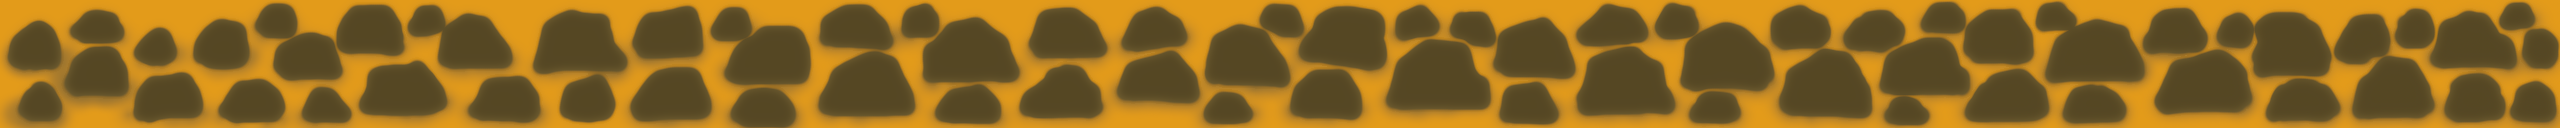
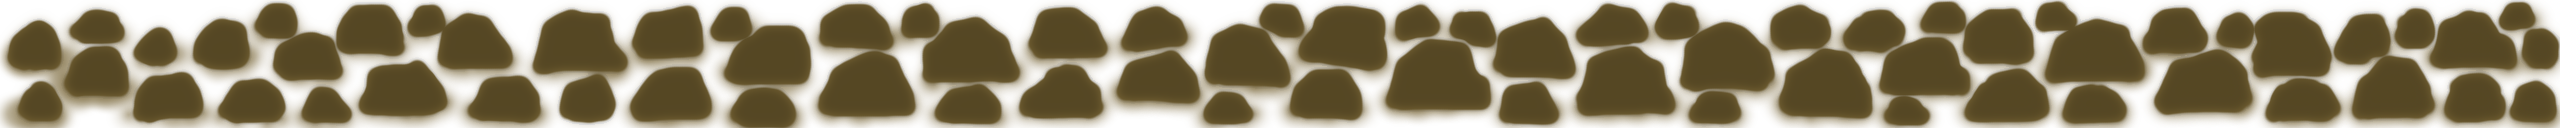
updated the images used for the game

diff --git a/src/main.ts b/src/main.ts
@@ -141,7 +141,33 @@ class PlayGame extends Phaser.Scene
                     screenCenterY + 2560 / 2 - (this.verticalWall.width + this.horizontalWall.height)
                 );
 
-                let cliff = new Phaser.Physics.Arcade.Sprite(this, randomX, randomY, 'tile-1');
+                let cliffRandomImageIndex = Phaser.Math.Between(1, 4);
+                let cliffRandomImageName: string = '';
+                switch(cliffRandomImageIndex)
+                {
+                    case 1:
+                        {
+                            cliffRandomImageName = 'tile-1'
+                            break;
+                        }
+                    case 2:
+                        {
+                            cliffRandomImageName = 'tile-2'
+                            break;
+                        }
+                    case 3:
+                        {
+                            cliffRandomImageName = 'tile-3'
+                            break;
+                        }
+                    case 4:
+                        {
+                            cliffRandomImageName = 'tile-4'
+                            break;
+                        }
+                }
+ 
+                let cliff = new Phaser.Physics.Arcade.Sprite(this, randomX, randomY, cliffRandomImageName);
                 const invalid = this.physics.overlap(cliff, this.player) 
                 || this.physics.overlap(cliff, this.escapeHatch)
                 || this.physics.overlap(cliff, this.batteries)
@@ -231,11 +257,11 @@ class PlayGame extends Phaser.Scene
     {
         if(victory === true)
         {
-            this.titleText.setText("Victory");
+            this.titleText.setText("Success!");
         }
         else
         {
-            this.titleText.setText("Defeat");
+            this.titleText.setText("Game Over!");
         }
 
         this.player.setVelocity(0,0);
@@ -425,6 +451,9 @@ class PlayGame extends Phaser.Scene
         this.load.image('background', 'assets/background.png');
         this.load.spritesheet('player', 'assets/player.png', {frameWidth: 128, frameHeight: 128});
         this.load.image('tile-1', 'assets/tile-1.png');
+        this.load.image('tile-2', 'assets/tile-2.png');
+        this.load.image('tile-3', 'assets/tile-3.png');
+        this.load.image('tile-4', 'assets/tile-4.png');
         this.load.image('battery', 'assets/battery.png');
         this.load.image('enemy', 'assets/enemy.png');
         this.load.image('power-bar', 'assets/power-bar.png');
@@ -473,11 +502,17 @@ class PlayGame extends Phaser.Scene
         this.titleText.setOrigin(0.5, 0.5);
 
         this.helpText = this.add.text(screenCenterX, screenCenterY + this.titleText.height, 
+            'Find the escape hatch before your power runs out!\n' +
+            'Every action drains power!\n' +
+            'Collect batteries scattered through out the zone to replenish your power!\n' +
+            'Beware the lost survivors ' +
+            'who failed to escape and have remained buried here!\n' +
             '[W] - Move Up \n'+
             '[A] - Move Left \n' +
             '[S] - Move Down \n' +
-            '[D] - Move Right \n', 
-            { fontSize: '32px', color: '#000'});
+            '[D] - Move Right \n' +
+            'Hold [SPACE] - Dig \n',  
+            { fontSize: '26px', color: '#000', align: 'center'});
         this.helpText.setOrigin(0.5, 0.5);
         
         this.helpText.setVisible(false);
@@ -578,16 +613,18 @@ class PlayGame extends Phaser.Scene
             repeat: -1
         })
 
-        this.player.setDepth(1);
-        this.pauseButton.setDepth(2);
-        this.powerBar.setDepth(2);
-        this.powerBarOutline.setDepth(2);
-        this.titleText.setDepth(2);
-        this.helpText.setDepth(2);
-        this.restartButton.setDepth(2);
-        this.startButton.setDepth(2);
-        this.helpButton.setDepth(2);
-        this.closeButton.setDepth(2);
+        this.escapeHatch.setDepth(1);
+        this.player.setDepth(2);
+        this.enemyNPCs.setDepth(2);
+        this.pauseButton.setDepth(3);
+        this.powerBar.setDepth(4);
+        this.powerBarOutline.setDepth(3);
+        this.titleText.setDepth(3);
+        this.helpText.setDepth(3);
+        this.restartButton.setDepth(3);
+        this.startButton.setDepth(3);
+        this.helpButton.setDepth(3);
+        this.closeButton.setDepth(3);
 
         this.upKey = this.input.keyboard?.addKey(Phaser.Input.Keyboard.KeyCodes.W);
         this.leftKey = this.input.keyboard?.addKey(Phaser.Input.Keyboard.KeyCodes.A);
@@ -627,10 +664,10 @@ class PlayGame extends Phaser.Scene
                     
             //this.powerText.setPosition(this.player.x - screenWidth / 2, this.player.y - screenHeight / 2);
 
-            this.powerBar.setPosition(cameraPositionX + this.powerBar.width * 0.5 + 64, 
-                cameraPositionY + this.powerBar.height * 0.5 + 64);
-            this.powerBarOutline.setPosition(cameraPositionX + this.powerBarOutline.width * 0.5 + 64,
-                cameraPositionY + this.powerBarOutline.height * 0.5 + 64);
+            this.powerBar.setPosition(cameraPositionX + this.powerBar.width / 2, 
+                cameraPositionY + this.powerBar.height / 2);
+            this.powerBarOutline.setPosition(cameraPositionX + this.powerBarOutline.width / 2,
+                cameraPositionY + this.powerBarOutline.height / 2);
             
             this.pauseButton.setPosition(cameraPositionX + screenWidth - this.startButton.width,
                 cameraPositionY + this.pauseButton.height);
